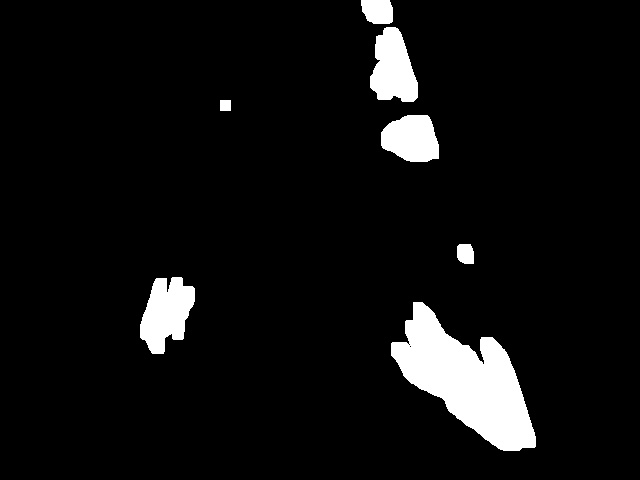
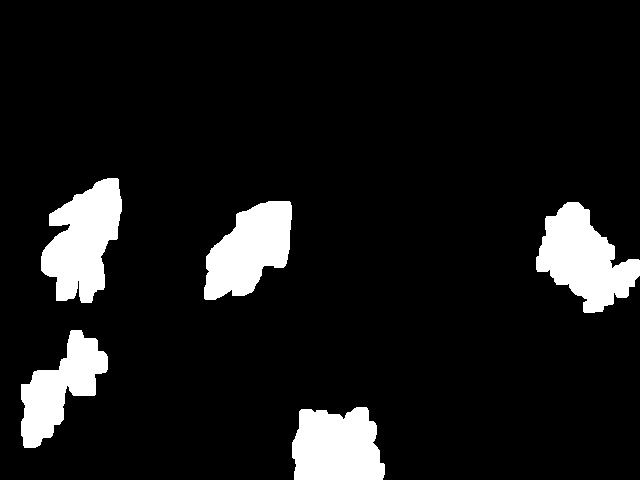
test row switching

diff --git a/src/vs_crop_row_nav/scripts/imageProc.py b/src/vs_crop_row_nav/scripts/imageProc.py
@@ -49,7 +49,7 @@ class imageProc:
 
         self.cropRowEnd = False
 
-        self.trackingBoxLoc = []
+        self.trackingBxoxLoc = []
 
         # features
         self.allLineEnd = []
@@ -62,12 +62,12 @@ class imageProc:
         self.trackingWindowOffsBottom = 0
         self.trackingWindowTopScaleRatio = 0.4  # scales the top of the window
 
-        self.imgHeight, self.imgWidth = 720, 1280
+        self.imgHeight, self.imgWidth = 480, 640
 
-        # steps create linspace
+        # steps create linspace # from where we start each step
         self.scanFootSteps = np.linspace(self.scannerParams["scanStartPoint"],
                                          self.scannerParams["scanEndPoint"],
-                                         self.scannerParams["scanWindowWidth"])
+                                         self.imgWidth / self.scannerParams["scanStep"]) # e.g. np.linspace(0, 640, num = 128)
         self.rowTrackingBoxes = []
         self.updateTrackingBoxes()
 
@@ -90,7 +90,7 @@ class imageProc:
             # initial RGB image process to get mask GreenIDx and plant centers
             self.mask, self.greenIDX, self.plantObjects2D, self.plantCenters2D = self.processRGBImage(self.primaryRGBImg)
             self.numPlantsInScene = len(self.plantCenters2D[0])
-        if not self.isInitialized:
+        if not self.isInitialized: # go into it only when the first time you found the crop row. Then you just track it but not go into it.
             print("#[INF] Find Crop Lane")
             self.lines2D, self.linesROIs2D = self.findCropRows2D(self.primaryRGBImg)
             print()
@@ -104,6 +104,7 @@ class imageProc:
         linesROIs = []
         # project the plant centers to 3D
 
+
         # cluster points 
 
         # fit line on each cluster
@@ -115,7 +116,7 @@ class imageProc:
 
     def findCropRows2D(self, rgbImg):
         # search for lines at given window locations using LQ-Adjustment
-        lines, linesROIs, _ = self.findLinesInImage()
+        lines, linesROIs, _ = self.findLinesInImage() # 
         print("xxxxxxxxxxxxxxxxxxxxxxxxx")
         # if any feature is observed during the scan
         if len(lines) != 0:
@@ -225,8 +226,8 @@ class imageProc:
         # counting the points in the top and bottom half
         self.pointsInBottom = 0
         self.pointsInTop = 0
-        # for all windows
-        for boxIdx in range(0, self.numOfCropRows, 1):
+        # for all windows (slide the windows)
+        for boxIdx in range(0, self.numOfCropRows, 1): # here numOfCropRows are multiple windows
             # define window
             if self.isInitialized:
                 # get x values, where the top and bottom of the window intersect
@@ -241,29 +242,31 @@ class imageProc:
             plantsInCropRow = []
             for ptIdx in range(self.numPlantsInScene):
                 # checking #points in upper/lower half of the image
-                self.checkPlantsLocTB(self.plantCenters2D[:, ptIdx])
+                self.checkPlantsLocTB(self.plantCenters2D[:, ptIdx]) 
                 
                 # if plant center is inside tracking box
                 if self.rowTrackingBoxes[boxIdx].contains(Point(self.plantCenters2D[0, ptIdx], self.plantCenters2D[1, ptIdx])):
                     plantsInCropRow.append(self.plantCenters2D[:, ptIdx])
 
-            if len(plantsInCropRow) >= 2:
+            if len(plantsInCropRow) >= 2: # if there is at least two points in the sliding win, draw a line
                 # flipped points
-                ptsFlip = np.flip(plantsInCropRow, axis=1)
+                ptsFlip = np.flip(plantsInCropRow, axis=1) # from xy to yx  e.g. if [array([ 67., 289.]), array([ 82., 145.])] can be seen as [[ 67., 289.],[82., 145.]] 2x2
                 # get line at scanning window
-                xM, xB = getLineRphi(ptsFlip)
-                t_i, b_i = lineIntersectImgUpDown(xM, xB, self.imgHeight)
+                xM, xB = getLineRphi(ptsFlip) # original: y = kx + b ;   get the k and b : x = ky + b      xM-> k    xB->b
+                t_i, b_i = lineIntersectImgUpDown(xM, xB, self.imgHeight) 
                 l_i, r_i = lineIntersectImgSides(xM, xB, self.imgHeight)
-                # print("row ID:", boxIdx, t_i, b_i, l_i, r_i )
+                # if boxIdx == 4:
+                    # asdf = 12
+                print("row ID:", boxIdx, t_i, b_i, l_i, r_i )
                 # if the linefit does not return None and the line-image intersections
                 # are within the image bounds
                 if xM is not None and b_i >= 0 and b_i <= self.imgWidth:
-                    lines[boxIdx, :] = [xB, xM]
+                    lines[boxIdx, :] = [xB, xM] # this line is valid 
                     # store the window location, which generated these line
                     # parameters
-                    if self.isInitialized == False:
+                    if self.isInitialized == False: # self.isInitialized is false the first time you detect the crop row
                         trackingWindows[boxIdx] = self.scanFootSteps[boxIdx]
-                    # mean x value of all points used for fitting the line
+                    # use median value to choose the x value of all points used for fitting the line
                     meanLinesInWindows[boxIdx] = np.median(plantsInCropRow, axis=0)[0]
 
         # if the feature extractor is initalized, adjust the window
@@ -279,35 +282,40 @@ class imageProc:
         return lines, trackingWindows, meanLinesInWindows
 
     def updateTrackingBoxes(self, boxID=0, lineIntersection=None):
-
+        
         if not self.isInitialized and lineIntersection==None:
             # initial tracking Boxes 
             for i in range(len(self.scanFootSteps)):
+                # polygon
                 # window is centered around self.scanFootSteps[i]
-                boxBL_x = self.scanFootSteps[i]
+                boxBL_x = self.scanFootSteps[i] # bottom_left_x
                 boxBR_x = self.scanFootSteps[i] + self.trackerParams["trackingBoxWidth"]
-                boxTL_x = int(boxBL_x - self.trackerParams["trackingBoxWidth"]/2 * self.trackerParams["sacleRatio"])
-                boxTR_x = int(boxTL_x + self.trackerParams["trackingBoxWidth"] * self.trackerParams["sacleRatio"])
-                boxT_y = self.trackerParams["bottomOffset"]
-                boxB_y = self.imgHeight - self.trackerParams["topOffset"]
+                boxTL_x = int(boxBL_x - self.trackerParams["trackingBoxWidth"]/2 * self.trackerParams["scaleRatio"])
+                boxTR_x = int(boxTL_x + self.trackerParams["trackingBoxWidth"] * self.trackerParams["scaleRatio"])
+                boxT_y = self.trackerParams["bottomOffset"] # default = 0
+                boxB_y = self.imgHeight - self.trackerParams["topOffset"] # default = 0
+                
                 # store the corner points
                 self.rowTrackingBoxes.append(Polygon([(boxBR_x, boxB_y),
                                                       (boxBL_x, boxB_y), 
                                                       (boxTL_x, boxT_y),
                                                       (boxTR_x, boxT_y)]))
+
+  
         else:
             # window corner points are left and right of these
             boxBL_x = int(lineIntersection[0] - self.trackerParams["trackingBoxWidth"]/2)
             boxBR_x = int(boxBL_x + self.trackerParams["trackingBoxWidth"])
-            boxTL_x = int(lineIntersection[1] - self.trackerParams["trackingBoxWidth"]/2 * self.trackerParams["sacleRatio"])
-            boxTR_x = int(boxTL_x + self.trackerParams["trackingBoxWidth"] * self.trackerParams["sacleRatio"])
+            boxTL_x = int(lineIntersection[1] - self.trackerParams["trackingBoxWidth"]/2 * self.trackerParams["scaleRatio"])
+            boxTR_x = int(boxTL_x + self.trackerParams["trackingBoxWidth"] * self.trackerParams["scaleRatio"])
             boxT_y = self.trackerParams["bottomOffset"]
             boxB_y = self.imgHeight - self.trackerParams["topOffset"]
-            # store the corner points
+                
             self.rowTrackingBoxes[boxID] = Polygon([(boxBR_x, boxB_y),
                                                     (boxBL_x, boxB_y),
                                                     (boxTL_x, boxT_y),
                                                     (boxTR_x, boxT_y)])
+
 
     def checkPlantsInRows(self, cropRowID, plantsInCroRow):
 
@@ -318,7 +326,7 @@ class imageProc:
             return False   
 
     def checkPlantsLocTB(self, point):
-        if point[1] < self.imgHeight/2:
+        if point[1] < self.imgHeight/2: # point[1] --> y
             self.pointsInTop += 1
         else:
             self.pointsInBottom += 1
@@ -388,12 +396,12 @@ class imageProc:
         # change datatype to enable negative values for self.greenIDX calculation
         rgbImg = rgbImg.astype('int32')
         # apply ROI
-        rgbImg = self.applyROI(rgbImg)
+        rgbImg = self.applyROI(rgbImg) # refer to p1 ~ p8
         #  get green index and binary mask (Otsu is used for extracting the green)
         mask, greenIDX = self.getExgMask(rgbImg)
         # find contours
         plantObjects = getPlantMasks(
-            mask, self.contourParams["minContourArea"], bushy=False)
+            mask, self.contourParams["minContourArea"], bushy=False) # denoise by removing small contours.
         # get center of contours
         contCenterPTS = getContourCenter(plantObjects)
         x = contCenterPTS[:, 1]

diff --git a/src/vs_crop_row_nav/scripts/vs_nodeHandler.py b/src/vs_crop_row_nav/scripts/vs_nodeHandler.py
@@ -95,13 +95,13 @@ class vs_nodeHandler:
         self.omegaBuffer = list()
 
         self.scannerParams = {
-            "scanSteps": rospy.get_param('scanSteps'),
+            "scanStep": rospy.get_param('scanStep'),
             "scanEndPoint": rospy.get_param('scanEndPoint'),
             "scanStartPoint": rospy.get_param('scanStartPoint'),
             "scanWindowWidth": rospy.get_param('scanWindowWidth')
         }
         #  in case of using bigger size image size, we suggest to set ROI 
-        self.rioParams = {
+        self.roiParams = {
             "enable_roi": rospy.get_param('enable_roi'),
             "p1": rospy.get_param('p1'),
             "p2": rospy.get_param('p2'),
@@ -126,7 +126,7 @@ class vs_nodeHandler:
         }
 
         self.trackerParams = {
-            "sacleRatio": rospy.get_param('sacleRatio'),
+            "scaleRatio": rospy.get_param('scaleRatio'),
             "topOffset": rospy.get_param('topOffset'),
             "bottomOffset": rospy.get_param('bottomOffset'),
             "trackingBoxWidth": rospy.get_param('trackingBoxWidth'),
@@ -153,7 +153,7 @@ class vs_nodeHandler:
         self.camera = cam.Camera(1,1.2,0,1,np.deg2rad(-80),0.96,0,0,1)
         self.imageProcessor = imc.imageProc(self.scannerParams,
                                             self.contourParams,
-                                            self.rioParams,
+                                            self.roiParams,
                                             self.trackerParams)
 
         self.cameraModel = image_geometry.PinholeCameraModel()
@@ -295,7 +295,7 @@ class vs_nodeHandler:
         self.velocity_pub.publish(self.velocityMsg)
 
     def frontSyncCallback(self, rgbImage, camera_info_msg):
-        print("\n\n\n--------------- frontSyncCallback ----------------")
+        # print("\n\n\n--------------- frontSyncCallback ----------------")
         self.cameraModel.fromCameraInfo(camera_info_msg)
         try:
             # Convert your ROS Image message to OpenCV2

diff --git a/some_useful_code.py b/some_useful_code.py
@@ -1,0 +1,49 @@
+import cv2
+bb = self.primaryRGBImg
+for xy_coord in plantsInCropRow:
+    _x, _y = xy_coord
+    cv2.circle(bb, (_x, _y), radius = 5, color=(255,0,0), thickness = 5)
+
+cv2.line(bb, (t_i, 0), (b_i, 475), color=(0,0,255), thickness = 2)
+cv2.rectangle(bb, (51, 0), (210, 480), color, thickness = 2)
+cv2.imwrite("bb.jpg",bb)
+
+
+xx, yy = poly.exterior.coords.xy
+
+from shapely.geometry import Polygon
+poly1 = Polygon( [[0, 0], [1,0], [1,1], [0,1] ] )
+poly2 = Polygon( [(0, 0), (1,0), (1,1), (0,1) ] )
+
+print(poly1.wkt)
+print(poly2.wkt)
+
+
+import cv2
+import numpy as np
+# black = np.zeros((480, 640, 3))
+current_img = self.primaryRGBImg
+for pair in [[(boxBR_x, boxB_y), (boxBL_x, boxB_y)],
+             [(boxBL_x, boxB_y), (boxTL_x, boxT_y)],
+             [(boxTL_x, boxT_y), (boxTR_x, boxT_y)],
+             [(boxTR_x, boxT_y), (boxBR_x, boxB_y)]]:
+
+    cv2.line(current_img, (int(pair[0][0]), int(pair[0][1])), (int(pair[1][0]), int(pair[1][1])), color=(0,0,255), thickness = 2)
+cv2.imwrite("current_img.jpg",current_img)
+
+
+
+
+
+# import cv2
+# current_img = self.primaryRGBImg
+# for xy in [     (boxBR_x, boxB_y),
+#                 (boxBL_x, boxB_y),
+#                 (boxTL_x, boxT_y),
+#                 (boxTR_x, boxT_y)]:
+#     x, y = xy
+#     cv2.circle(current_img, (int(x),int(y)), radius = 5, color=(255,255,255), thickness = 5)
+
+# cv2.imwrite("current_img.jpg",current_img)
+            
+

diff --git a/src/vs_crop_row_nav/scripts/geometric.py b/src/vs_crop_row_nav/scripts/geometric.py
@@ -65,7 +65,7 @@ def lineIntersectImgUpDown(m, b, imageHeight):
     Returns:
         _type_: top and bottom intersection points on image boarders
     """
-    # line calculations
+    # line calculations 
     b_i = b
     t_i = m * imageHeight + b
     return t_i, b_i
@@ -90,6 +90,6 @@ def getLineRphi(xyCords):
     Returns:
         _type_: r, phi of line
     """
-    x_coords, y_coords = zip(*xyCords)
-    coefficients = np.polyfit(x_coords, y_coords, 1)
-    return coefficients[0], coefficients[1]
+    x_coords, y_coords = zip(*xyCords)               # Least squares polynomial fit
+    coefficients = np.polyfit(x_coords, y_coords, 1) # https://numpy.org/doc/stable/reference/generated/numpy.polyfit.html#:~:text=numpy.polyfit(,%5Bsource%5D
+    return coefficients[0], coefficients[1] # k and b  if degree is 1

diff --git a/tools/mp4_2_rosbag.py b/tools/mp4_2_rosbag.py
@@ -33,11 +33,11 @@ info.roi.do_rectify = False
 
 
 
-def CreateVideoBag(bagname = "mybag_1row.bag"):
+def CreateVideoBag(bagname = r"../mybag_front_back.bag"):
     '''Creates a bag file with n video files'''
     bag = rosbag.Bag(bagname, 'w')
-    cap1 = cv2.VideoCapture("/home/huanyu-pc/agrirobot_ws/tools/1row.mp4")
-    cap2 = cv2.VideoCapture("/home/huanyu-pc/agrirobot_ws/tools/nothing20s.mp4")
+    cap1 = cv2.VideoCapture("/home/huanyu-pc/agrirobot_ws/tools/front1.mp4")
+    cap2 = cv2.VideoCapture("/home/huanyu-pc/agrirobot_ws/tools/back1.mp4")
     
     cb = CvBridge()
 

diff --git a/src/vs_crop_row_nav/scripts/movingVariance.py b/src/vs_crop_row_nav/scripts/movingVariance.py
@@ -7,7 +7,7 @@ import copy
 
 # funciton to compute the moving standard deviation for a given window size
 
-def movingStd(data, winSize=5):
+def movingStd(data, winSize=5): # winSize here is stepSize
     _data = data.copy()
     # compute a moving standard deviation
     stdVec = np.zeros((len(_data)-winSize, 1))

diff --git a/README.md b/README.md
@@ -1,4 +1,10 @@
 # agri_bot
+
+Note:
+    - in order to have a good run, the following is recommended.
+    - [for ROS debug] python extension v2021.8.1159798656, otherwise python2 cannot be debugged.
+    - ROS v0.7.0
+
 - 11/24
     - create rosbag to debug such that we don't need to rely on camera.
     - tools/mp4_2_rosbag.py is used to create rosbag. For simplicity, the front and back camera share the same camera_info which might be used for calibrating.
